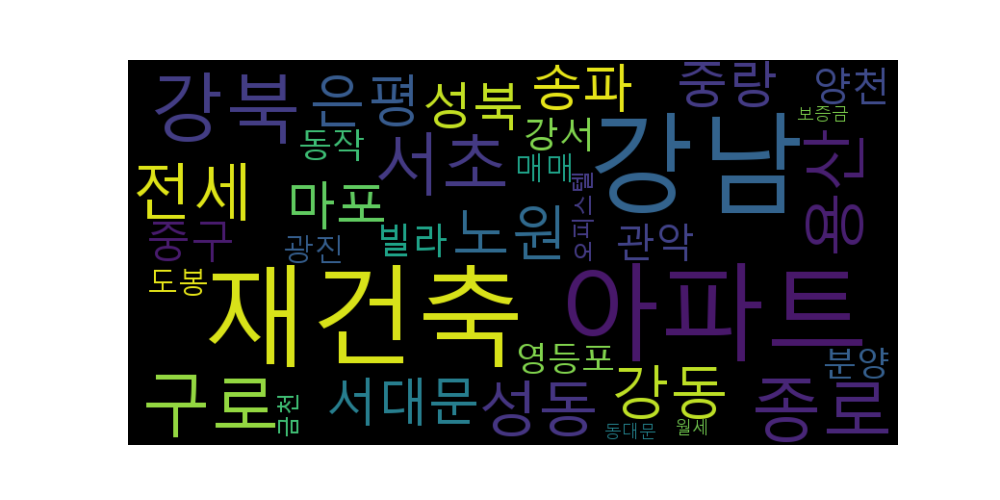
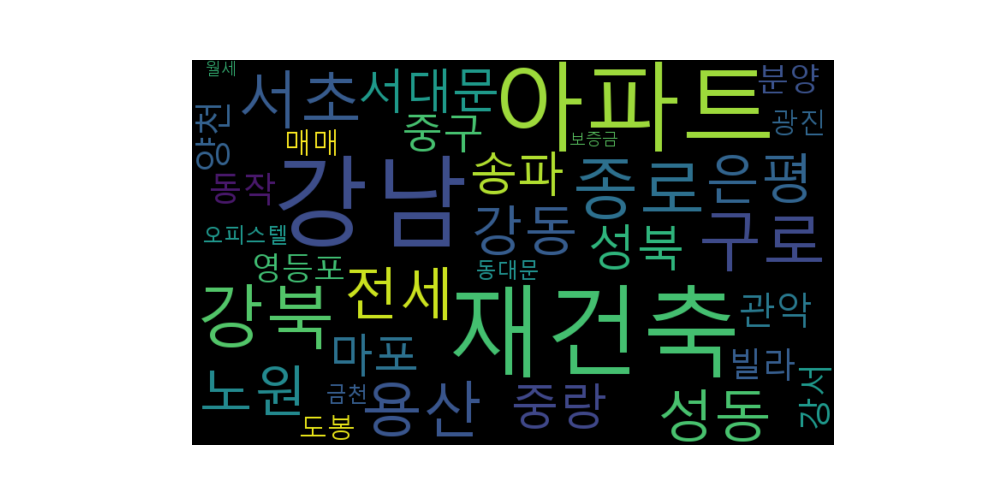
merge/ develop 브랜치 merge

Changed region(s): [[0.124, 0.12, 0.899, 0.9]]

diff --git a/crawl/wordcloud/wordcloud_generator.py b/crawl/wordcloud/wordcloud_generator.py
@@ -16,7 +16,7 @@ def generate_wordcloud(frequency_data):
     font_path = 'C:/Windows/Fonts/malgun.ttf'
 
     # 워드클라우드 생성
-    wordcloud = WordCloud(width=800, height=400, background_color='black', font_path=font_path).generate_from_frequencies(word_frequency)
+    wordcloud = WordCloud(width=750, height=450, background_color='black', font_path=font_path).generate_from_frequencies(word_frequency)
 
     # 이미지 저장
     image_dir = 'static/wordcloud_images'
@@ -31,5 +31,5 @@ def generate_wordcloud(frequency_data):
     plt.savefig(image_path, format='png')
     plt.close()
 
-frequency_data=check_cache_and_collect_data()
-generate_wordcloud(frequency_data)
+# frequency_data=check_cache_and_collect_data()
+# generate_wordcloud(frequency_data)

diff --git a/crawl/wordcloud/wordcloud_api.py b/crawl/wordcloud/wordcloud_api.py
@@ -1,7 +1,7 @@
 from django.http import JsonResponse
 from crawl.news_crawler.news_crawler import check_cache_and_collect_data
 from wordcloud_generator import generate_wordcloud
-from flask import Flask, jsonify, send_file
+from flask import Flask, jsonify
 
 app = Flask(__name__)
 
@@ -14,7 +14,7 @@ def create_wordcloud():
     # 워드클라우드 이미지 생성
     generate_wordcloud(frequency_data)
 
-    image_url = f'/static/wordcloud_images/wordcloud.png'
+    image_url = f'crawl/wordcloud/static/wordcloud_images/wordcloud.png'
 
     # 클라이언트에게 이미지 URL 반환
     return jsonify({'image_url': image_url})

diff --git a/crawl/news_crawler/news_crawler.py b/crawl/news_crawler/news_crawler.py
@@ -73,7 +73,7 @@ def crawl_news(city_no, dvsn_no,frequency_data):
 
             pub_date = datetime.strptime(date_str, '%Y%m%d')
 
-            # 날짜가 3개월 이전이면 크롤링 중단
+            # 날짜가 6개월 이전이면 크롤링 중단
             if pub_date < six_months_ago:
                 flag=1
                 break
